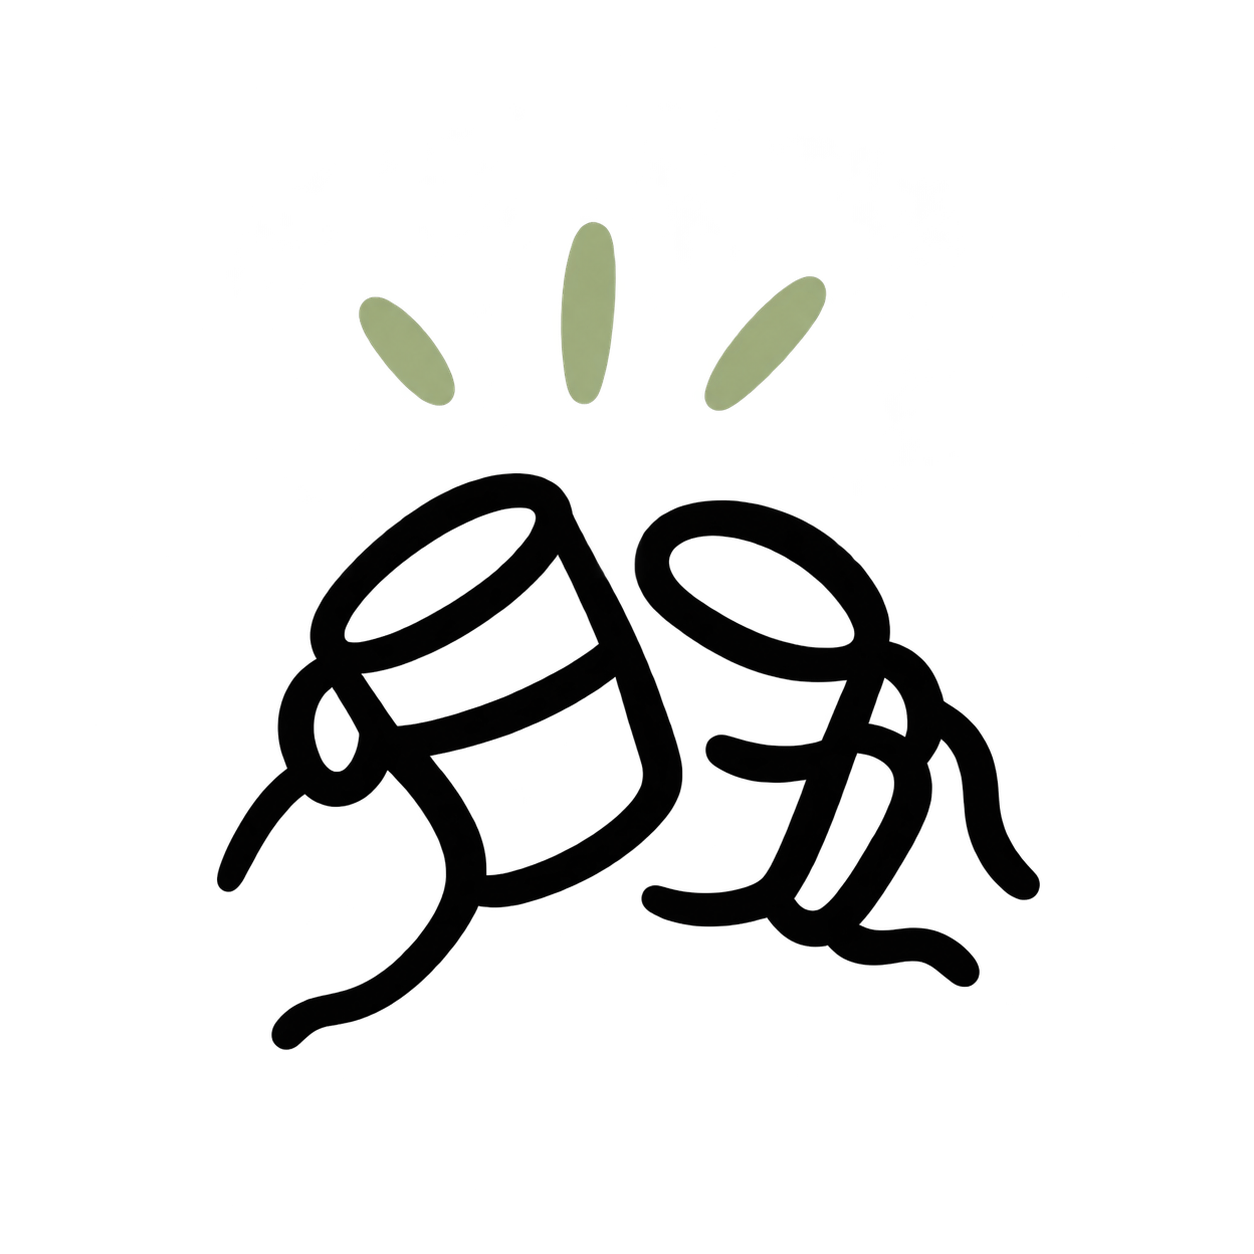
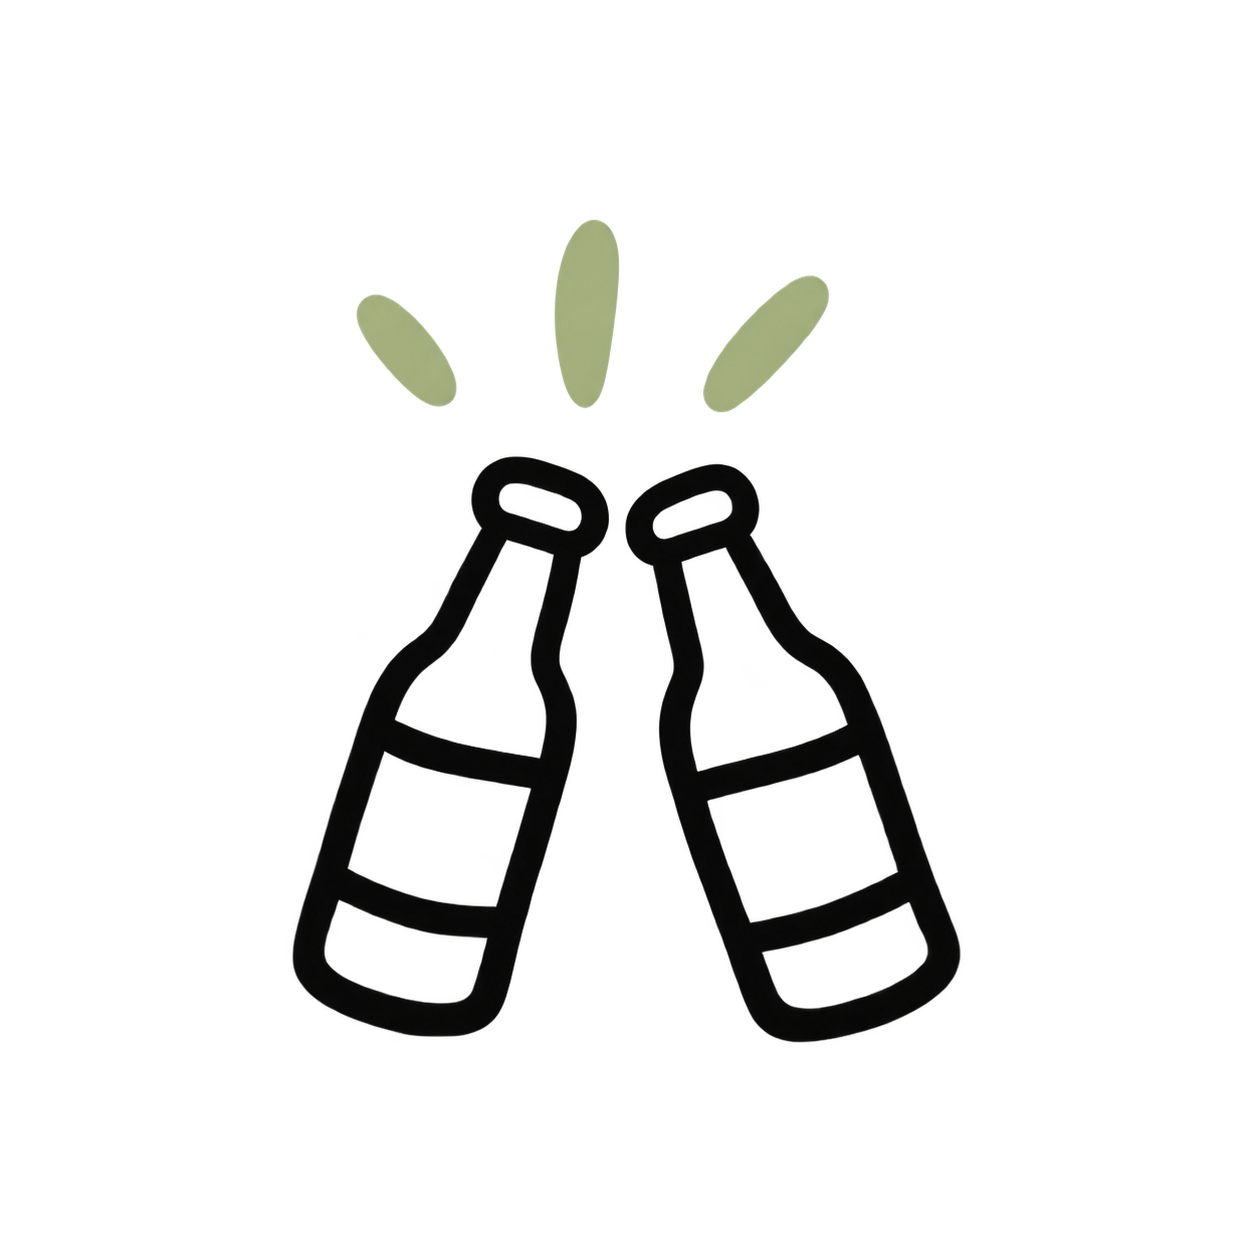
Icono cervezas y quitamos frase

Changed region(s): [[0.1555, 0.3421, 0.8397, 0.8397], [0.4354, 0.1866, 0.4976, 0.311], [0.622, 0.2488, 0.6531, 0.2799]]

diff --git a/index.html b/index.html
@@ -210,7 +210,7 @@
 
       <div class="paper-zone itinerary-zone">
         <h2>El gran día</h2>
-        <p class="section-intro">Estos son algunos de los momentos que compartiremos. ¡Tenemos muchas ganas de vivirlos con vosotros!</p>
+        <p class="section-intro">Estos son algunos de los momentos que compartiremos.</p>
         <ol class="itinerary-list">
           <li class="ani_fadeInLeft aniUtil_dramatic"><img class="itinerary-icon" src="images/itinerario/Icono de iglesia en verde salvia.png" alt=""><time>11:30</time><span class="itinerary-copy"><strong>Ceremonia</strong><small>Intercambio de votos en la iglesia</small></span></li>
           <li class="ani_fadeInRight aniUtil_dramatic"><img class="itinerary-icon" src="images/itinerario/cervezas_brindis.png" alt=""><time>12:30</time><span class="itinerary-copy"><strong>Quedada en la plaza</strong><small>Tomaremos algo en lo que esperamos al autobús</small></span></li>
